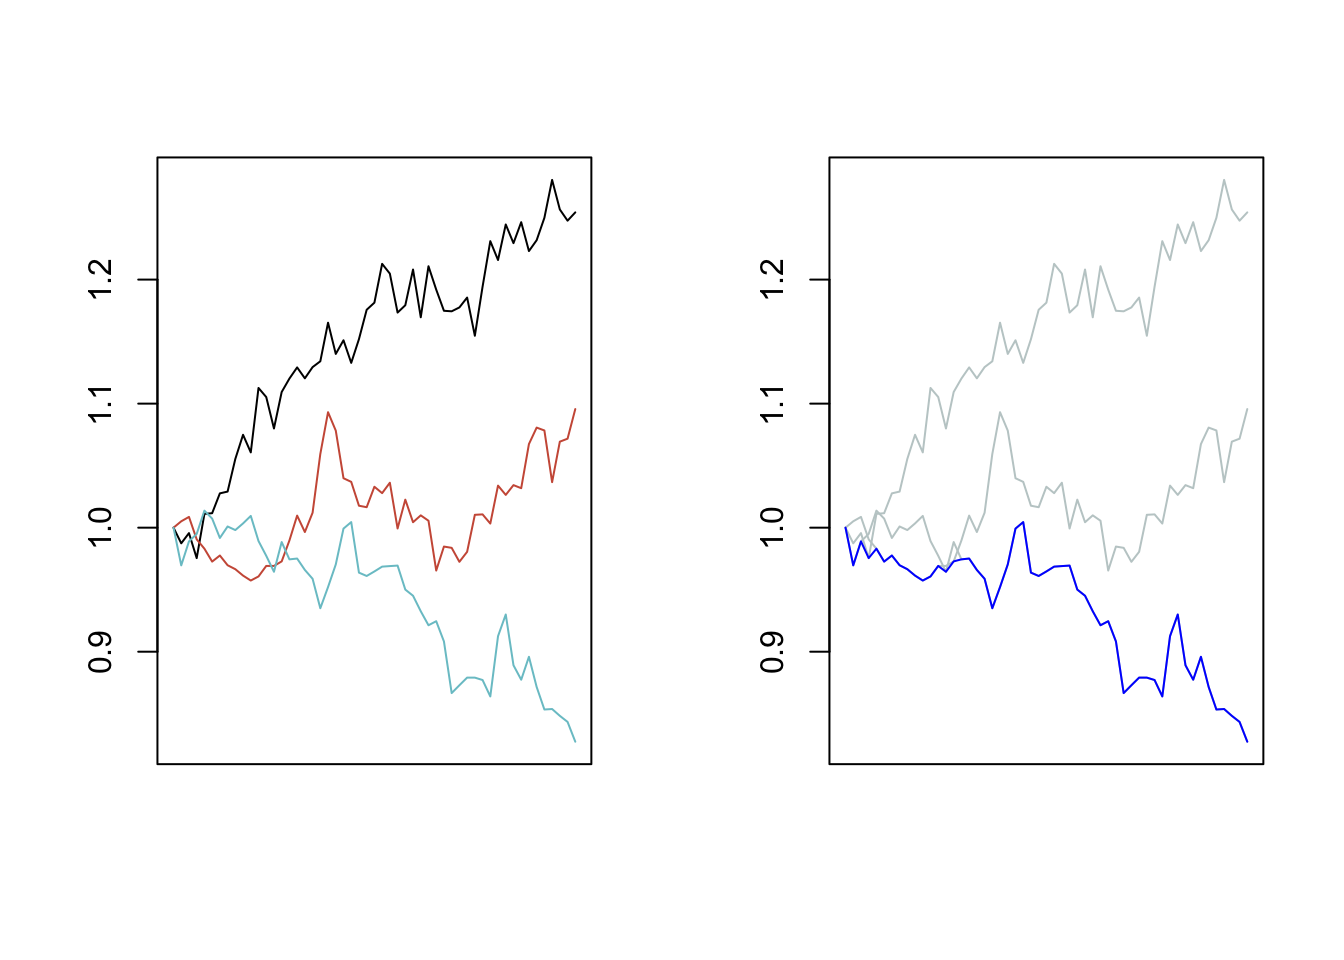
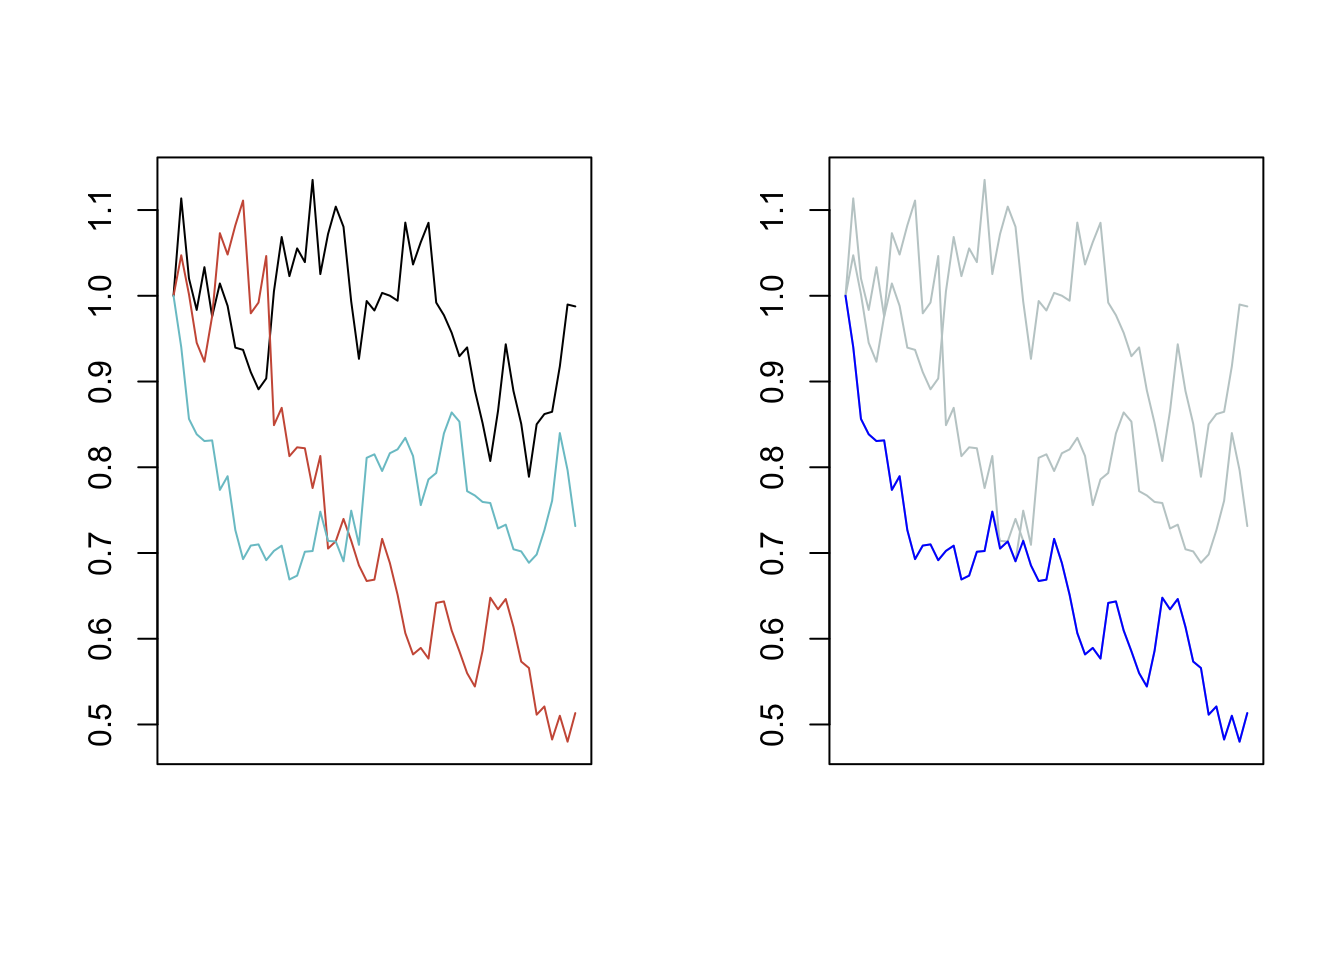
Chart mistake
no interchanging paths

diff --git a/docs/index.html b/docs/index.html
@@ -180,7 +180,7 @@ derived from public sources</a></li>
   sT
 }
 <span class="kw">cat</span>(<span class="st">&quot;Spot after 1 year: &quot;</span>, <span class="kw">aSampleSpotT</span>(<span class="dv">1</span>, <span class="fl">0.04</span>, <span class="fl">0.01</span>, <span class="dv">0</span>, <span class="fl">0.2</span>, <span class="dv">1</span>, <span class="dv">1</span>))</code></pre></div>
-<pre><code>## Spot after 1 year:  0.9034631</code></pre>
+<pre><code>## Spot after 1 year:  0.9406981</code></pre>
 <p>If required it is also possible to iterate over several consecutive periods to generate a path. For example, instead of sampling the spot after 1 year, we sample the spot after 1 week, then use the spot at week 1 to sample the spot at week 2, and so on until we arrive at the final observation as required. By repeatedly and independently generating many such paths we can visualise how the stock diffusion looks like.</p>
 <p>Assume the stock drifts at 0% per annum, i.e. <span class="math inline">\(r - d - q = 0\)</span>, and the stock has constant volatility of 20% per annum, we plot several paths or trajectories. The initial spot price is normalised to 1. Each trajectory below consist of 52 consecutive weekly observations. See Figure <a href="index.html#fig:manyPath-compute-traj">1.1</a>:</p>
 <div class="sourceCode"><pre class="sourceCode r"><code class="sourceCode r">nSteps =<span class="st"> </span><span class="dv">52</span> <span class="co"># weekly obs</span>
@@ -201,10 +201,10 @@ for (i in <span class="dv">2</span>:(nSteps<span class="dv">+1</span>))
 <tbody>
 <tr class="odd">
 <td>Spot price</td>
-<td align="right">0.9654728</td>
-<td align="right">0.9581902</td>
-<td align="right">0.9697437</td>
-<td align="right">0.9637569</td>
+<td align="right">1.010354</td>
+<td align="right">1.008503</td>
+<td align="right">1.027878</td>
+<td align="right">1.046089</td>
 </tr>
 </tbody>
 </table>
@@ -287,41 +287,37 @@ corrTraj =<span class="st"> </span><span class="kw">matrix</span>(<span class="k
 for (i in <span class="dv">2</span>:(nSteps<span class="dv">+1</span>))
   corrTraj[,i] =<span class="st"> </span><span class="kw">corrSpot</span>(corrTraj[,i<span class="dv">-1</span>], <span class="dv">0</span>, <span class="dv">0</span>, <span class="dv">0</span>, <span class="fl">0.2</span>, <span class="dv">1</span>/nSteps, corrHigh)</code></pre></div>
 <table>
-<caption><span id="tab:manyTrajCorrelated-tab">Table 1.3: </span>First 5 weekly close of 3 correlated undls</caption>
+<caption><span id="tab:manyTrajCorrelated-tab">Table 1.3: </span>First 4 weekly close of 3 correlated undls</caption>
 <thead>
 <tr class="header">
 <th></th>
-<th align="right">wk1</th>
-<th align="right">wk2</th>
-<th align="right">wk3</th>
-<th align="right">wk4</th>
-<th align="right">wk5</th>
+<th align="right">Week 1</th>
+<th align="right">Week 2</th>
+<th align="right">Week 3</th>
+<th align="right">Week 4</th>
 </tr>
 </thead>
 <tbody>
 <tr class="odd">
-<td>undl1</td>
-<td align="right">1</td>
-<td align="right">0.9826109</td>
-<td align="right">0.9758952</td>
-<td align="right">0.9286175</td>
-<td align="right">0.8947027</td>
+<td>Undl 1</td>
+<td align="right">1.0148149</td>
+<td align="right">1.051679</td>
+<td align="right">1.055015</td>
+<td align="right">0.9982919</td>
 </tr>
 <tr class="even">
-<td>undl2</td>
-<td align="right">1</td>
-<td align="right">0.9950613</td>
-<td align="right">0.9939981</td>
-<td align="right">0.9802210</td>
-<td align="right">0.9563047</td>
+<td>Undl 2</td>
+<td align="right">0.9873323</td>
+<td align="right">1.018286</td>
+<td align="right">1.025675</td>
+<td align="right">0.9778886</td>
 </tr>
 <tr class="odd">
-<td>undl3</td>
-<td align="right">1</td>
-<td align="right">0.9798993</td>
-<td align="right">0.9889713</td>
-<td align="right">0.9603761</td>
-<td align="right">0.9390326</td>
+<td>Undl 3</td>
+<td align="right">0.9844207</td>
+<td align="right">1.040822</td>
+<td align="right">1.033495</td>
+<td align="right">0.9804207</td>
 </tr>
 </tbody>
 </table>
@@ -339,22 +335,22 @@ Figure 1.2: Two separate simulations of the paths of the underlyings in the bask
                 <span class="fl">0.0</span>, <span class="fl">1.0</span>, <span class="fl">0.0</span>,
                 <span class="fl">0.0</span>, <span class="fl">0.0</span>, <span class="fl">1.0</span>), 
               <span class="dt">nrow =</span> <span class="dv">3</span>,
-              <span class="dt">dimnames =</span> <span class="kw">list</span>(<span class="kw">c</span>(<span class="st">&quot;undl1&quot;</span>, <span class="st">&quot;undl2&quot;</span>, <span class="st">&quot;undl3&quot;</span>), 
-                              <span class="kw">c</span>(<span class="st">&quot;undl1&quot;</span>, <span class="st">&quot;undl2&quot;</span>, <span class="st">&quot;undl3&quot;</span>)))
+              <span class="dt">dimnames =</span> <span class="kw">list</span>(<span class="kw">c</span>(<span class="st">&quot;Undl 1&quot;</span>, <span class="st">&quot;Undl 2&quot;</span>, <span class="st">&quot;Undl 3&quot;</span>), 
+                              <span class="kw">c</span>(<span class="st">&quot;Undl 1&quot;</span>, <span class="st">&quot;Undl 2&quot;</span>, <span class="st">&quot;Undl 3&quot;</span>)))
 
 corrTraj2 =<span class="st"> </span><span class="kw">matrix</span>(<span class="kw">rep</span>(<span class="dv">1</span>, (nSteps<span class="dv">+1</span>)*nUndls), <span class="dt">nrow =</span> nUndls)
 for (i in <span class="dv">2</span>:(nSteps<span class="dv">+1</span>))
-  corrTraj2[,i] =<span class="st"> </span><span class="kw">corrSpot</span>(corrTraj2[,i<span class="dv">-1</span>], <span class="dv">0</span>, <span class="dv">0</span>, <span class="dv">0</span>, <span class="fl">0.15</span>, <span class="dv">1</span>/nSteps, corrLow)</code></pre></div>
-<p>To make it obvious that a worst-of “underlying” does not have to be the same underlying at different point of time, we chose to create a much lower correlated basket of underlyings. We also chose to fix the annualised volatility of these underlyings constant at 15%.</p>
+  corrTraj2[,i] =<span class="st"> </span><span class="kw">corrSpot</span>(corrTraj2[,i<span class="dv">-1</span>], <span class="dv">0</span>, <span class="dv">0</span>, <span class="dv">0</span>, <span class="fl">0.40</span>, <span class="dv">1</span>/nSteps, corrLow)</code></pre></div>
+<p>To make it obvious that a worst-of “underlying” does not have to be the same underlying at different point of time, we chose to create a much lower correlated basket of underlyings. We also chose to fix the annualised volatility of these underlyings constant at 40%.</p>
 <p>In this stylised result we see how the worst-of underlying may differ over time.</p>
-<div class="sourceCode"><pre class="sourceCode r"><code class="sourceCode r"><span class="kw">print</span>(corrTraj2[,<span class="dv">1</span>:<span class="dv">5</span>]) <span class="co"># First 5 weekly close of 3 less correlated undls</span></code></pre></div>
-<pre><code>##      [,1]      [,2]      [,3]      [,4]      [,5]
-## [1,]    1 0.9873822 0.9956225 0.9754487 1.0111310
-## [2,]    1 1.0051351 1.0086736 0.9905850 0.9830392
-## [3,]    1 0.9696188 0.9889384 0.9949613 1.0137290</code></pre>
+<div class="sourceCode"><pre class="sourceCode r"><code class="sourceCode r"><span class="kw">print</span>(corrTraj2[,<span class="dv">2</span>:<span class="dv">5</span>]) <span class="co"># First 4 weekly close of 3 less correlated undls</span></code></pre></div>
+<pre><code>##           [,1]      [,2]      [,3]      [,4]
+## [1,] 1.1135548 1.0202253 0.9835093 1.0333351
+## [2,] 1.0472104 1.0016814 0.9452105 0.9230915
+## [3,] 0.9400727 0.8563856 0.8384821 0.8305874</code></pre>
 <div class="sourceCode"><pre class="sourceCode r"><code class="sourceCode r">woTraj =<span class="st"> </span><span class="kw">apply</span>(corrTraj2, <span class="dv">2</span>, min)
-<span class="kw">print</span>(woTraj[<span class="dv">1</span>:<span class="dv">5</span>]) <span class="co"># First 5 weekly close of the worst &quot;underlying&quot;</span></code></pre></div>
-<pre><code>## [1] 1.0000000 0.9696188 0.9889384 0.9754487 0.9830392</code></pre>
+<span class="kw">print</span>(woTraj[<span class="dv">2</span>:<span class="dv">5</span>]) <span class="co"># First 4 weekly close of the worst &quot;underlying&quot;</span></code></pre></div>
+<pre><code>## [1] 0.9400727 0.8563856 0.8384821 0.8305874</code></pre>
 <p>Let’s plot one sample of all underlying paths. On the right we overlay the worst-of “underlying” in blue while greying out the actual underlying paths. See Figure <a href="index.html#fig:wo-traj-plot">1.3</a>:</p>
 <div class="sourceCode"><pre class="sourceCode r"><code class="sourceCode r"><span class="kw">par</span>(<span class="dt">mfrow =</span> <span class="kw">c</span>(<span class="dv">1</span>, <span class="dv">2</span>))
 <span class="kw">plot</span>(corrTraj2[<span class="dv">1</span>,], <span class="dt">type =</span> <span class="st">&quot;l&quot;</span>,
@@ -387,12 +383,12 @@ Figure 1.3: A basket of 3 underlyings (in grey) and the worst-of underlying (in 
 <p>Unlike the worst-of call option, a best-of call is more expensive than the average of call. However, if you have a bearish view, buying a best-of put is much more affordable. Likewise, <em>selling</em> a best-of call brings the investor much more premium.</p>
 <div class="sourceCode"><pre class="sourceCode r"><code class="sourceCode r"><span class="kw">print</span>(corrTraj2[,<span class="dv">1</span>:<span class="dv">5</span>]) <span class="co"># First 5 weekly close of 3 correlated undls</span></code></pre></div>
 <pre><code>##      [,1]      [,2]      [,3]      [,4]      [,5]
-## [1,]    1 0.9873822 0.9956225 0.9754487 1.0111310
-## [2,]    1 1.0051351 1.0086736 0.9905850 0.9830392
-## [3,]    1 0.9696188 0.9889384 0.9949613 1.0137290</code></pre>
+## [1,]    1 1.1135548 1.0202253 0.9835093 1.0333351
+## [2,]    1 1.0472104 1.0016814 0.9452105 0.9230915
+## [3,]    1 0.9400727 0.8563856 0.8384821 0.8305874</code></pre>
 <div class="sourceCode"><pre class="sourceCode r"><code class="sourceCode r">boTraj =<span class="st"> </span><span class="kw">apply</span>(corrTraj2, <span class="dv">2</span>, max)
 <span class="kw">print</span>(woTraj[<span class="dv">1</span>:<span class="dv">5</span>]) <span class="co"># First 5 weekly close of the worst &quot;underlying&quot;</span></code></pre></div>
-<pre><code>## [1] 1.0000000 0.9696188 0.9889384 0.9754487 0.9830392</code></pre>
+<pre><code>## [1] 1.0000000 0.9400727 0.8563856 0.8384821 0.8305874</code></pre>
 <p>Again, we see there is no need for the best-of “underlying” to be the same underlying in the basket from start to end of the product tenor. See Figure <a href="index.html#fig:bo-traj-plot">1.4</a>:</p>
 <div class="sourceCode"><pre class="sourceCode r"><code class="sourceCode r"><span class="kw">par</span>(<span class="dt">mfrow =</span> <span class="kw">c</span>(<span class="dv">1</span>, <span class="dv">2</span>))
 <span class="kw">plot</span>(corrTraj2[<span class="dv">1</span>,], <span class="dt">type =</span> <span class="st">&quot;l&quot;</span>,
